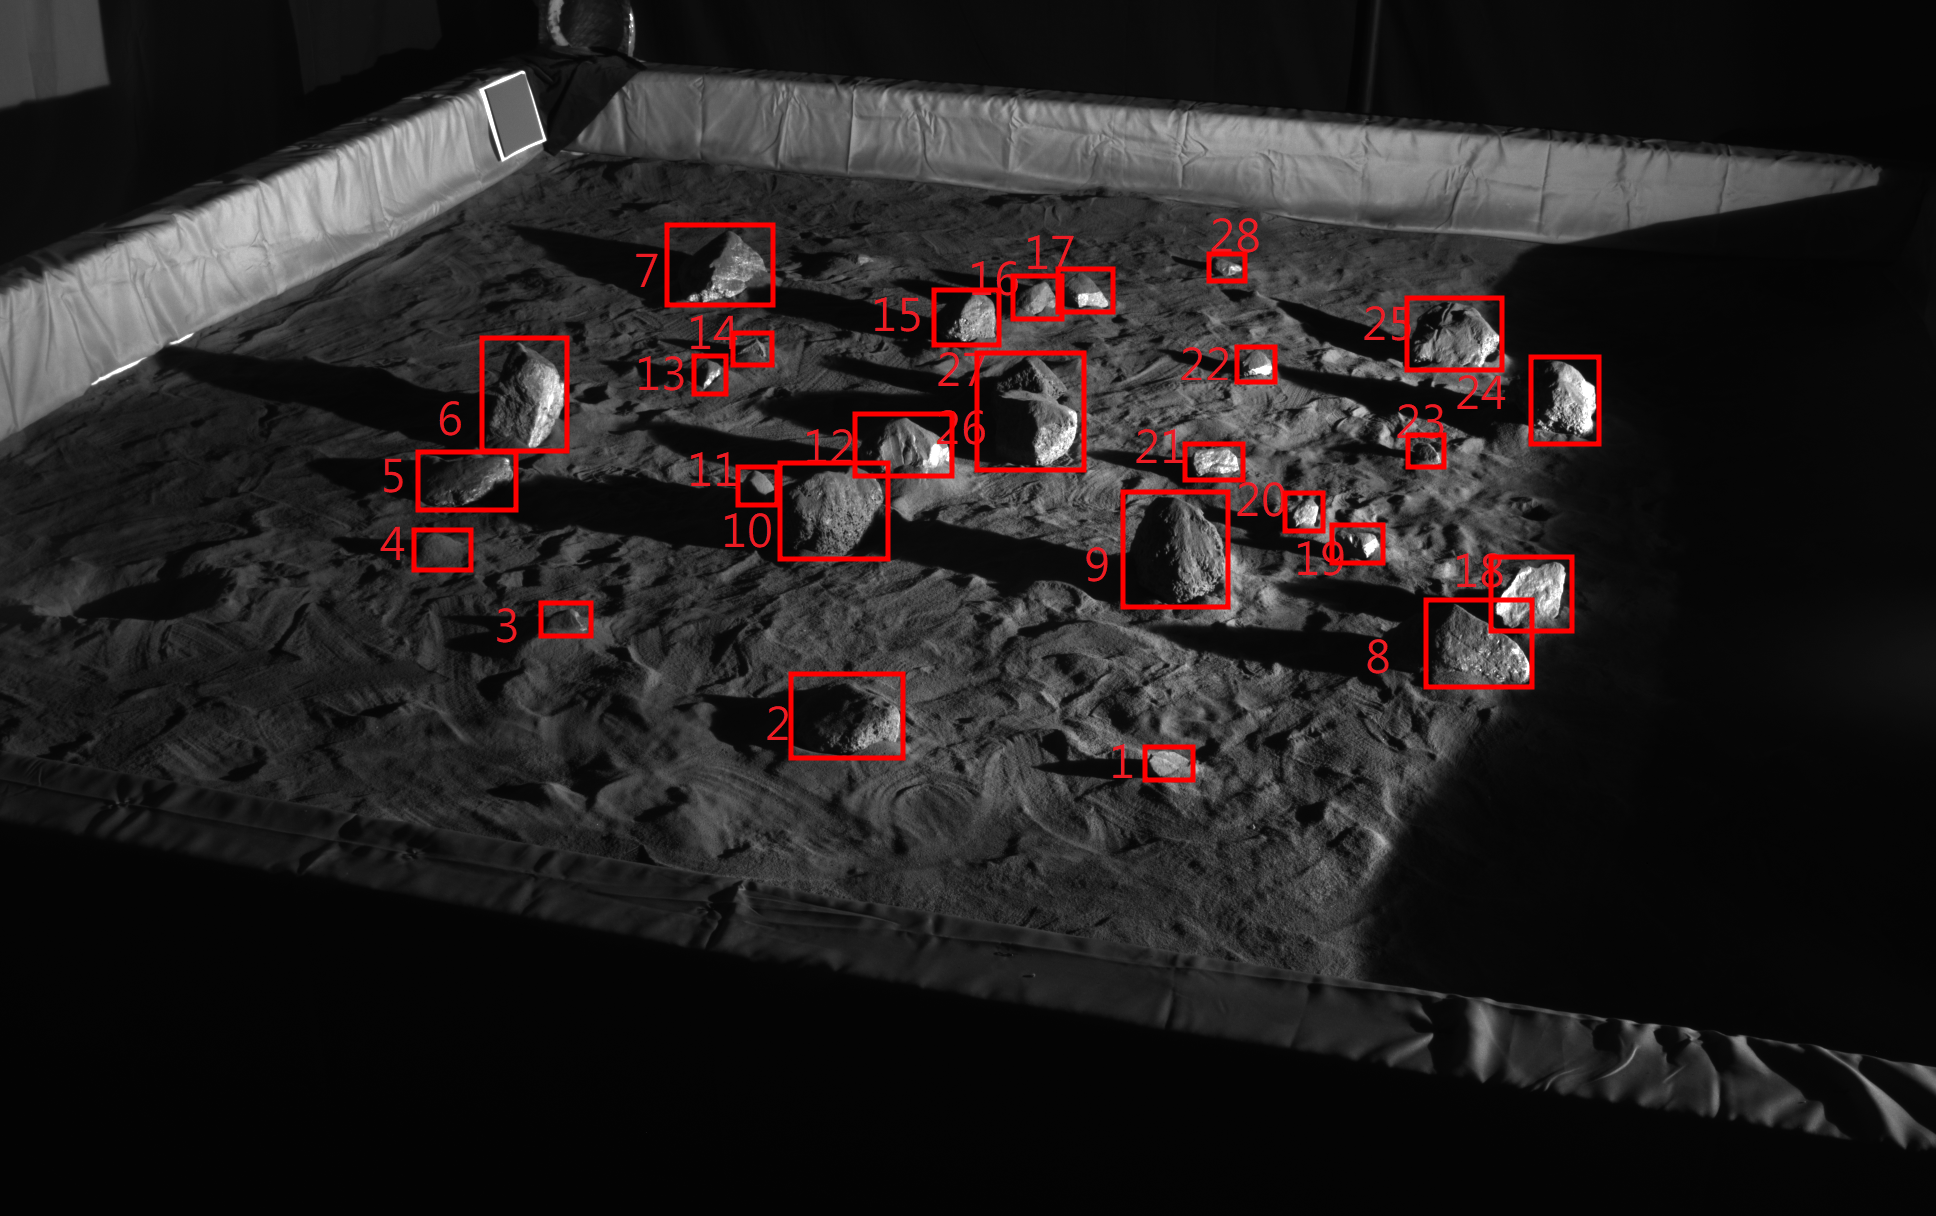
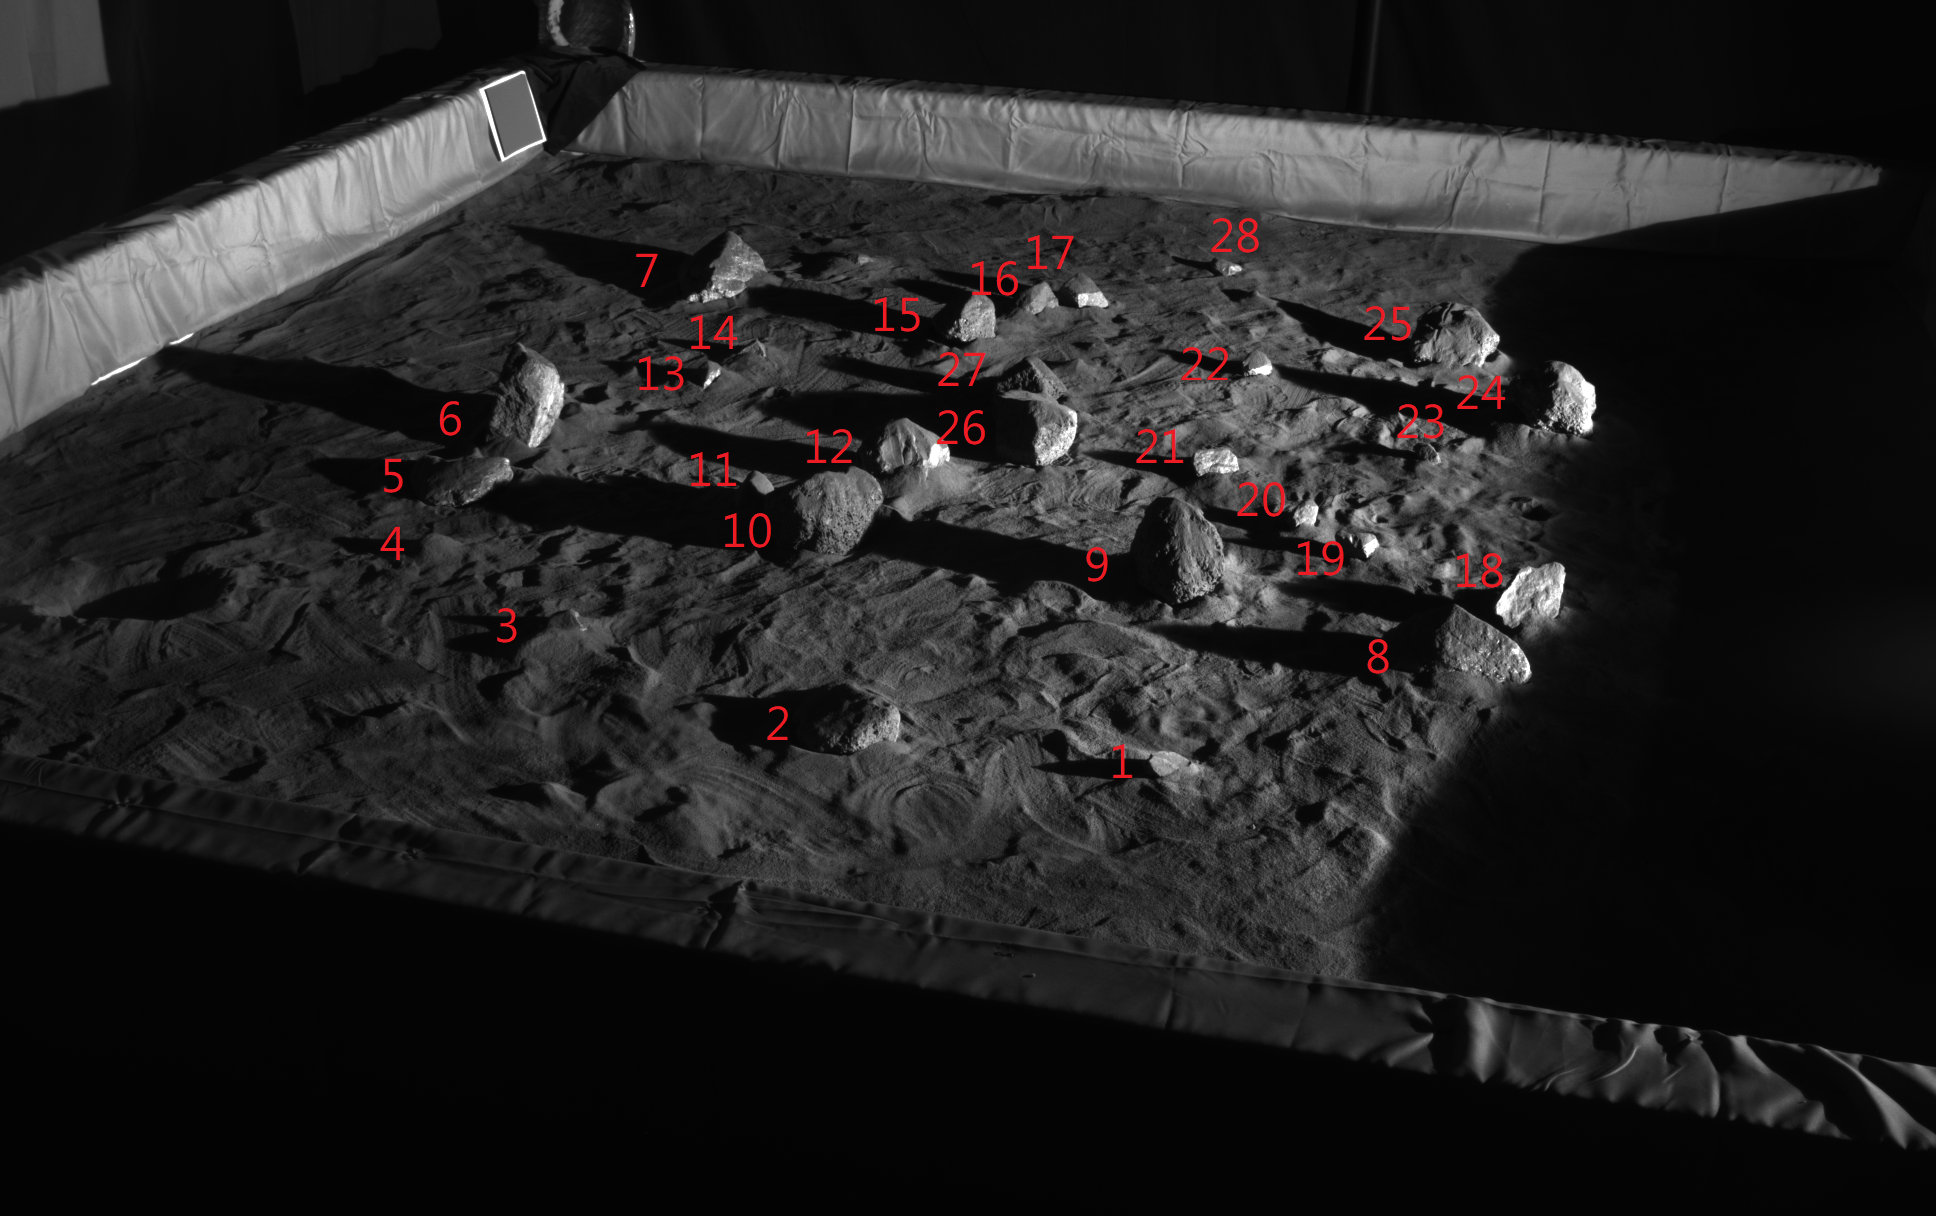
cover photo bugs fixed

diff --git a/README.md b/README.md
@@ -1,6 +1,10 @@
 # POLAR3D
 a database of bounding box labels and terrain meshes for the <a href="https://ti.arc.nasa.gov/dataset/IRG_PolarDB/" target="_blank">POLAR dataset</a>
 
+# Logs
+7/9/2024
+1. Cover photo bugs fixed.
+
 # Cover Photos
 Pictures in the *CoverPhotos* folder show how we index the rocks in each terrain. The indices do not meet the label orders in the bounding box label txt files. The indices meet the rock ID of the mesh files in each terrain. Original pictures come from the POLAR dataset.
 
